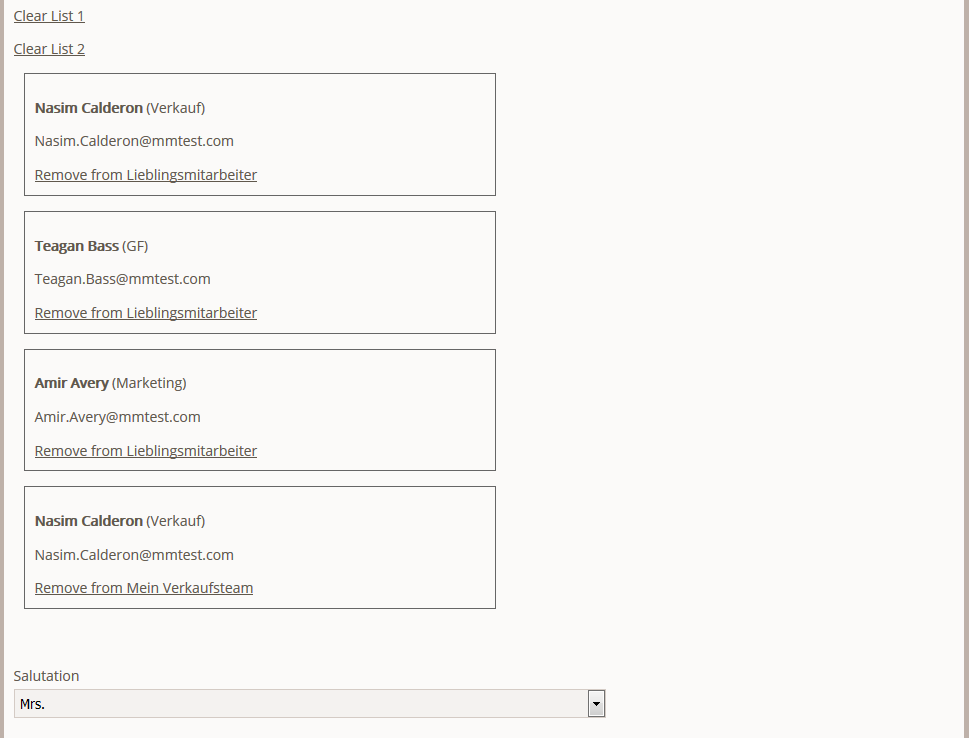
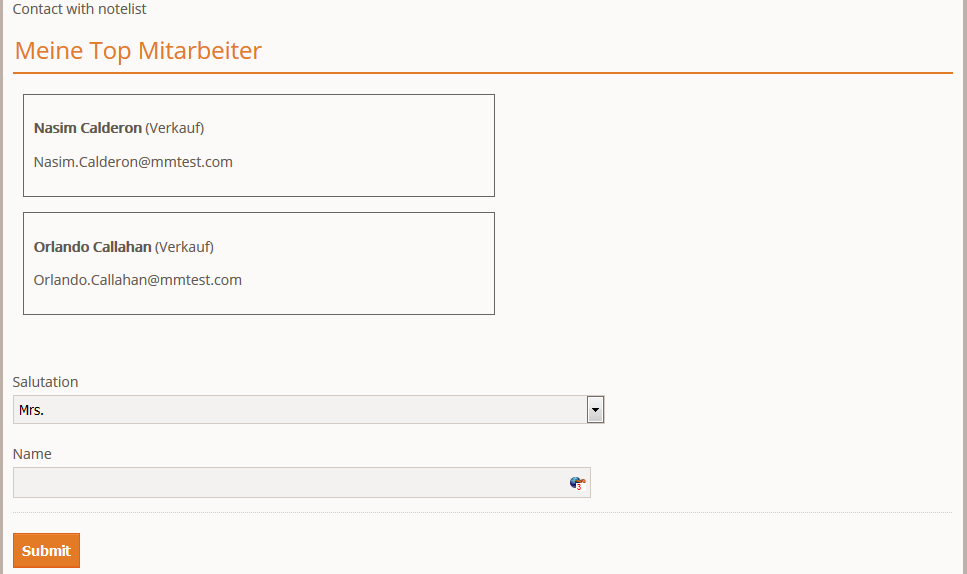
Notelist update
Notelist update

diff --git a/manual/extended/notelist.rst b/manual/extended/notelist.rst
@@ -44,7 +44,7 @@ Voraussetzungen für die Installation:
 
 * PHP 7.x
 * Contao 3.5.x
-* MetaModels core dev-hotfix/2.0.0-alpha16 (b326aed1) und DCG 2.0.0-beta39
+* MetaModels ab core 2.0.0-alpha16 und DCG 2.0.0-beta39
 
 In der Paketverwaltung in der Suche `metamodels/notelist` eingeben,
 installieren und die Datenbank aktualisieren.
@@ -139,21 +139,56 @@ Im Formulargeneratorsteht ein neues Widget `MetaModels note list` zur Verfügung
 Mit den Einstellungen wird sowohl die Anzeige im Formular als auch in der E-Mail
 gesteuert.
 
-Dazu kann eine oder mehrere Merklisten aktiviert und jeweils für die FE-Ausgabe
-und die E-Mail-Ausgabe eine Render-Einstellung ausgewählt werden.
+Dazu kann eine oder mehrere Merklisten aktiviert und jeweils eine Render-Einstellung
+für die FE-Ausgabe und die E-Mail-Ausgabe ausgewählt werden. Zusätzlich kann für
+jede Merkliste über die Checkbox "Clear list" bestimmt werden, ob nach der
+Formularverarbeitung die Liste geleert werden soll. Das optionale Template
+"Custom email template" bindet alle Renderings der E-Mail-Ausgaben der Merklisten
+ein und "umschließt" diese.
 
 |img_nodelist_form_widget|
 
-Im Formular werden die entsprechenden Datensätze ausgegeben mit der Möglichkeit, die gesamte Liste
-oder einzelne Items zu löschen.
+Im Formular werden die entsprechenden Datensätze über die gewählte Render-Einstellung
+ausgegeben.
 
 |img_nodelist_form_fe_list|
+
+Eine Bearbeitung z.B. Löschen der Elemente der Merkliste ist im Formular nicht möglich,
+da bei einem Reload der Seite schon im Formular eingegebene Daten verloren gehen würden.
+
+Man kann vor der Ausgabe des Formulares eine Liste mit allen Elementen der Merkliste
+ausgeben und dort diese einzeln bearbeiten oder die gesamte Liste löschen.
+
+.. code-block:: html
+   :linenos:
+
+   <p><a href="de/metamodels/note-list-contact-form.html?notelist_2_action=clear">Clear List 2</a></p>
+
+|img_nodelist_form_fe_list_edit_items|
 
 Die Daten werden per E-Mail übertragen und können über das E-Mail-Template in der Ausgabe
 angepasst werden. Für die Versendung stehen die Contao-Formularoption oder auch das
 "Notification Center (NC)" zur Verfügung.
 
 |img_notelist_email_list|
+
+
+Übermittlung zusätzlicher Daten für jedes Item
+----------------------------------------------
+
+Als Option können für jedes Item zusätzliche Daten an die Merkliste wie z.B. eine Anzahl, Freitext
+o.ä. übermittelt werden. Dafür erstellt man über den Formulargenerator ein Formular, welches die
+anzuzeigenden Felder beinhaltet z.B. Auswahlfeld für eine Anzahl und Textfeld für eine kurze Info -
+ein Absendefeld ist nicht notwendig und wird automatisch generiert.
+
+Dieses angelegte Formular steht nun in den Einstellungen der Merkliste zur Verfügung - Formulare,
+die schon ein Merkliste-Formularelement beinhalten, werden nicht angezeigt (Rekursion!).
+
+In der Listendarstellung wird bei jedem Item nun das Formular inkl. einem "Add/Edit-Button"
+angezeigt. Die Daten werden vom Formular auch mit verarbeitet und z.B. per E-Mail mitgesendet.
+
+|img_notelist_fe_list_with_form|
+
 
 
 Known Issues and Next Features
@@ -258,9 +293,11 @@ Ein Dank für die Spenden* für die Erweiterung an:
 .. |img_notelist_overview| image:: /_img/screenshots/extended/notelist/notelist_overview.png
 .. |img_notelist_ce_mm-list| image:: /_img/screenshots/extended/notelist/notelist_ce_mm-list.png
 .. |img_notelist_fe_list| image:: /_img/screenshots/extended/notelist/notelist_fe_list.png
+.. |img_nodelist_form_fe_list_edit_items| image:: /_img/screenshots/extended/notelist/nodelist_form_fe_list_edit_items.png
 .. |img_notelist_filterrule| image:: /_img/screenshots/extended/notelist/notelist_filterrule.png
 .. |img_notelist_filtered_list| image:: /_img/screenshots/extended/notelist/notelist_filtered_list.png
 .. |img_notelist_fe_list_with_filter| image:: /_img/screenshots/extended/notelist/notelist_fe_list_with_filter.png
 .. |img_nodelist_form_widget| image:: /_img/screenshots/extended/notelist/nodelist_form_widget.png
 .. |img_nodelist_form_fe_list| image:: /_img/screenshots/extended/notelist/nodelist_form_fe_list.png
 .. |img_notelist_email_list| image:: /_img/screenshots/extended/notelist/notelist_email_list.png
+.. |img_notelist_fe_list_with_form| image:: /_img/screenshots/extended/notelist/notelist_fe_list_with_form.png
